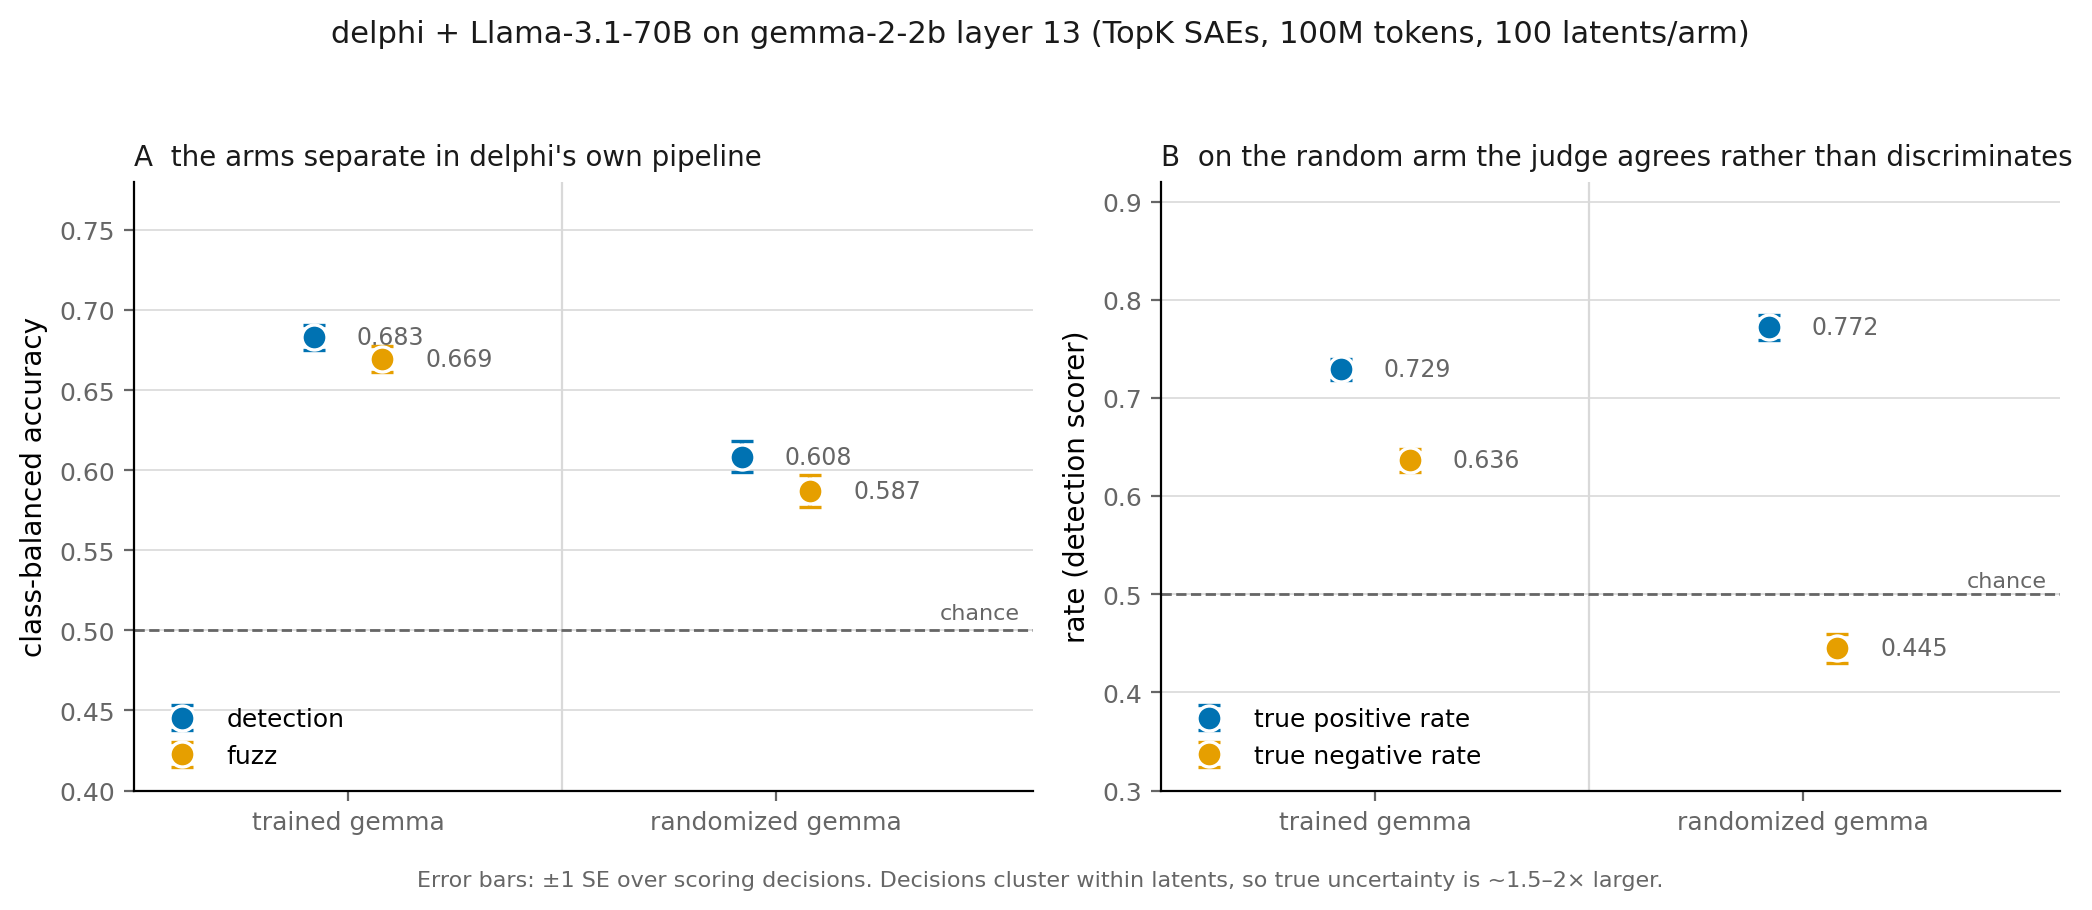
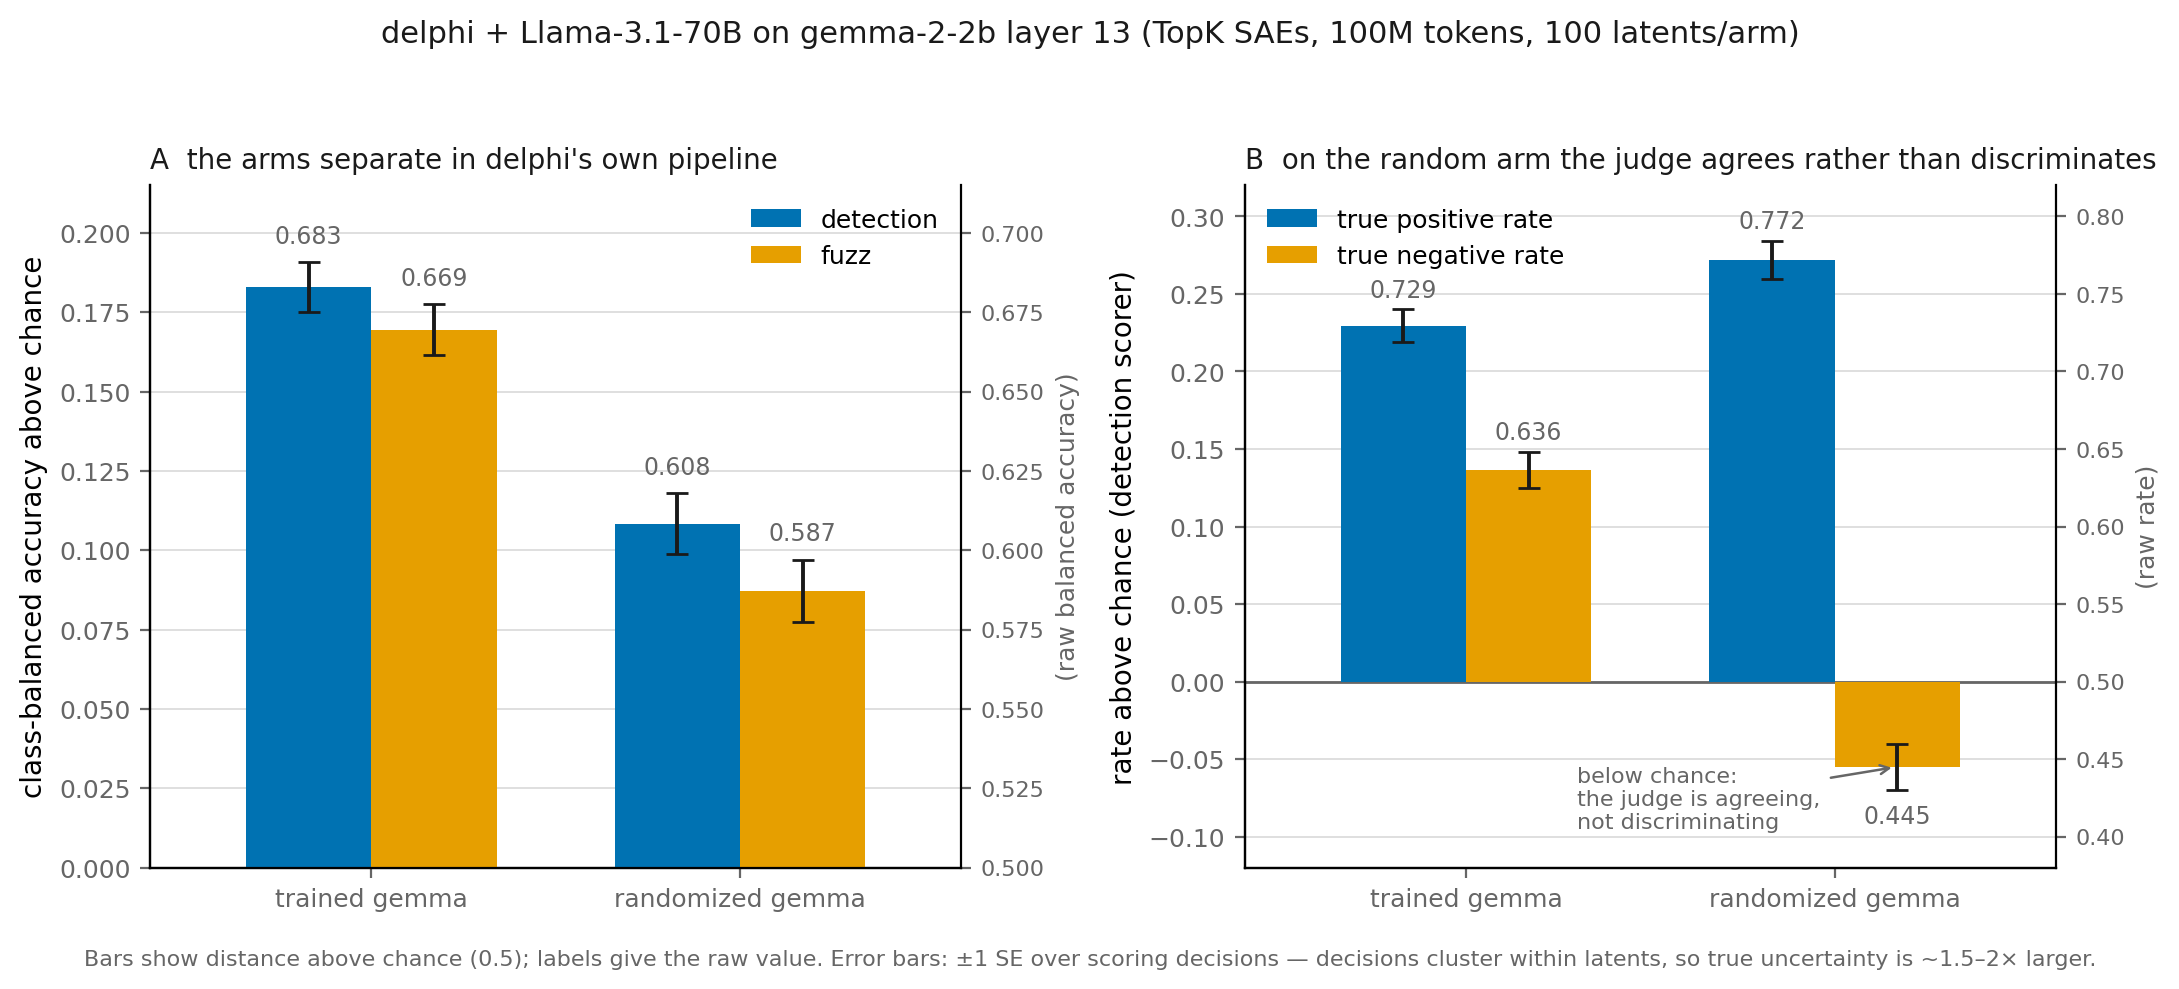
delphi figure: bars above chance with a twin raw axis, so error bars are legible

diff --git a/SAE_linearmaps/randomized/plot_delphi.py b/SAE_linearmaps/randomized/plot_delphi.py
@@ -47,59 +47,69 @@ def rates(tp, fn, tn, fp):
     return tpr, se_tpr, tnr, se_tnr, (tpr + tnr) / 2, math.sqrt(se_tpr**2 + se_tnr**2) / 2
 
 
-# DOTS, not bars. These are bounded metrics whose meaningful floor is 0.5 (chance), not 0, so the
-# axis has to be truncated to read the differences -- and a truncated BAR lies, because bar length
-# encodes magnitude. Position-encoded marks make the same axis honest, and put the error bars
-# (the point of the figure) in the foreground.
-fig, (axA, axB) = plt.subplots(1, 2, figsize=(10.5, 4.4), dpi=200)
-W, MS = 0.16, 9
+# Bars of (metric - 0.5), i.e. ABOVE CHANCE. Two problems solved at once: chance is the real zero
+# for these metrics, so bar length now encodes something (discriminative signal) and the baseline is
+# honest rather than truncated; and the axis shrinks ~5x, which is what makes an SE of ~0.008
+# visible at all. The twin axis on the right restores the raw values people quote -- that is a unit
+# conversion of one scale, not a second measure, so it is not a dual-axis chart.
+CHANCE = 0.5
+fig, (axA, axB) = plt.subplots(1, 2, figsize=(11, 4.8), dpi=200)
+W, EB = 0.34, dict(ecolor=INK, capsize=4, elinewidth=1.4)
 
 # ---- A: balanced accuracy, grouped by arm ---------------------------------------------------
 for i, sc in enumerate(SCORERS):
     xs = [j + (i - 0.5) * W for j in range(len(ARMS))]
-    ys = [rates(*COUNTS[a][sc])[4] for a in ARMS]
+    raw = [rates(*COUNTS[a][sc])[4] for a in ARMS]
     es = [rates(*COUNTS[a][sc])[5] for a in ARMS]
-    c = BLUE if sc == "detection" else ORANGE
-    axA.errorbar(xs, ys, yerr=es, fmt="o", ms=MS, color=c, ecolor=c,
-                 elinewidth=1.6, capsize=4, zorder=3, label=sc,
-                 markeredgecolor="white", markeredgewidth=1.2)
-    for x, y in zip(xs, ys):                       # visible labels: the contrast relief
-        axA.text(x + 0.10, y, f"{y:.3f}", ha="left", va="center", fontsize=8.5, color=MUTED)
+    axA.bar(xs, [y - CHANCE for y in raw], W, yerr=es, error_kw=EB, zorder=3,
+            color=(BLUE if sc == "detection" else ORANGE), label=sc)
+    for x, y, e in zip(xs, raw, es):               # raw value: what gets quoted, and contrast relief
+        axA.text(x, y - CHANCE + e + 0.006, f"{y:.3f}", ha="center", fontsize=8.5, color=MUTED)
 
-axA.axhline(0.5, ls="--", lw=1, color=MUTED, zorder=2)
-axA.text(1.57, 0.507, "chance", ha="right", fontsize=8, color=MUTED)
+axA.axhline(0, lw=1, color=MUTED, zorder=2)
 axA.set_xticks(range(len(ARMS)), ["trained gemma", "randomized gemma"])
-axA.set_xlim(-0.5, 1.6)
-axA.set_ylabel("class-balanced accuracy")
-axA.set_ylim(0.4, 0.78)
+axA.set_xlim(-0.6, 1.6)
+axA.set_ylabel("class-balanced accuracy above chance")
+axA.set_ylim(0, 0.215)
+_a = axA.twinx()
+_a.set_ylim(CHANCE, CHANCE + 0.215)
+_a.set_ylabel("(raw balanced accuracy)", color=MUTED, fontsize=9)
+_a.tick_params(colors=MUTED, labelsize=8)
+for sp in ("top",):
+    _a.spines[sp].set_visible(False)
 axA.set_title("A  the arms separate in delphi's own pipeline", fontsize=10, loc="left", color=INK)
-axA.legend(frameon=False, fontsize=9, loc="lower left")
+axA.legend(frameon=False, fontsize=9, loc="upper right")
 
 # ---- B: TPR vs TNR -- the response-bias mechanism --------------------------------------------
 for i, (lab, idx) in enumerate([("true positive rate", 0), ("true negative rate", 2)]):
     xs = [j + (i - 0.5) * W for j in range(len(ARMS))]
     r = [rates(*COUNTS[a]["detection"]) for a in ARMS]
-    ys, es = [v[idx] for v in r], [v[idx + 1] for v in r]
-    c = BLUE if idx == 0 else ORANGE
-    axB.errorbar(xs, ys, yerr=es, fmt="o", ms=MS, color=c, ecolor=c,
-                 elinewidth=1.6, capsize=4, zorder=3, label=lab,
-                 markeredgecolor="white", markeredgewidth=1.2)
-    for x, y in zip(xs, ys):
-        axB.text(x + 0.10, y, f"{y:.3f}", ha="left", va="center", fontsize=8.5, color=MUTED)
+    raw, es = [v[idx] for v in r], [v[idx + 1] for v in r]
+    axB.bar(xs, [y - CHANCE for y in raw], W, yerr=es, error_kw=EB, zorder=3,
+            color=(BLUE if idx == 0 else ORANGE), label=lab)
+    for x, y, e in zip(xs, raw, es):
+        off = (e + 0.008) if y >= CHANCE else -(e + 0.022)
+        axB.text(x, y - CHANCE + off, f"{y:.3f}", ha="center", fontsize=8.5, color=MUTED)
 
-axB.axhline(0.5, ls="--", lw=1, color=MUTED, zorder=2)
-axB.text(1.57, 0.507, "chance", ha="right", fontsize=8, color=MUTED)
+axB.axhline(0, lw=1, color=MUTED, zorder=2)
 axB.set_xticks(range(len(ARMS)), ["trained gemma", "randomized gemma"])
-axB.set_xlim(-0.5, 1.6)
-axB.set_ylabel("rate (detection scorer)")
-axB.set_ylim(0.3, 0.92)
+axB.set_xlim(-0.6, 1.6)
+axB.set_ylabel("rate above chance (detection scorer)")
+axB.set_ylim(-0.12, 0.32)
+axB.annotate("below chance:\nthe judge is agreeing,\nnot discriminating",
+             xy=(1 + 0.5 * W, -0.055), xytext=(0.30, -0.095), fontsize=8, color=MUTED,
+             arrowprops=dict(arrowstyle="->", color=MUTED, lw=0.9))
+_b = axB.twinx()
+_b.set_ylim(CHANCE - 0.12, CHANCE + 0.32)
+_b.set_ylabel("(raw rate)", color=MUTED, fontsize=9)
+_b.tick_params(colors=MUTED, labelsize=8)
+_b.spines["top"].set_visible(False)
 axB.set_title("B  on the random arm the judge agrees rather than discriminates",
               fontsize=10, loc="left", color=INK)
-axB.legend(frameon=False, fontsize=9, loc="lower left")
+axB.legend(frameon=False, fontsize=9, loc="upper left")
 
 for ax in (axA, axB):
     ax.grid(axis="y", color=GRID, lw=0.6, zorder=0)
-    ax.axvline(0.5, color=GRID, lw=0.8, zorder=0)
     ax.set_axisbelow(True)
     for s in ("top", "right"):
         ax.spines[s].set_visible(False)
@@ -108,8 +118,8 @@ for ax in (axA, axB):
 fig.suptitle("delphi + Llama-3.1-70B on gemma-2-2b layer 13 (TopK SAEs, 100M tokens, 100 latents/arm)",
              fontsize=11, color=INK, y=0.99)
 fig.text(0.5, 0.005,
-         "Error bars: ±1 SE over scoring decisions. Decisions cluster within latents, so true "
-         "uncertainty is ~1.5–2× larger.",
+         "Bars show distance above chance (0.5); labels give the raw value. Error bars: ±1 SE over "
+         "scoring decisions \u2014 decisions cluster within latents, so true uncertainty is ~1.5\u20132\u00d7 larger.",
          ha="center", fontsize=8, color=MUTED)
 fig.tight_layout(rect=(0, 0.03, 1, 0.95))
 
